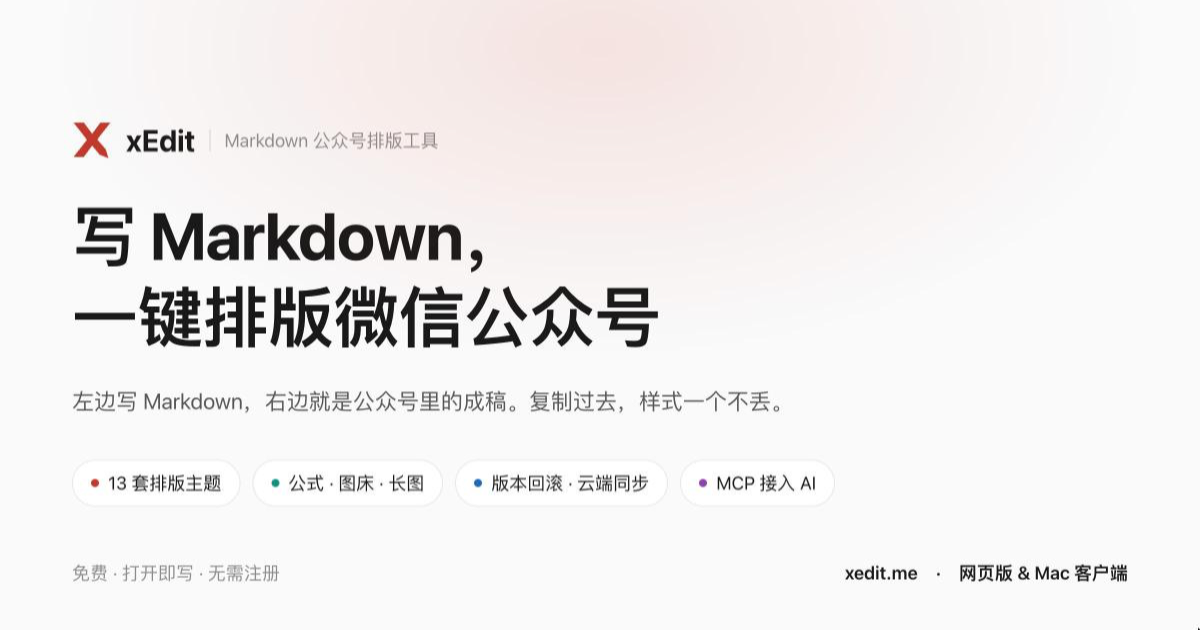
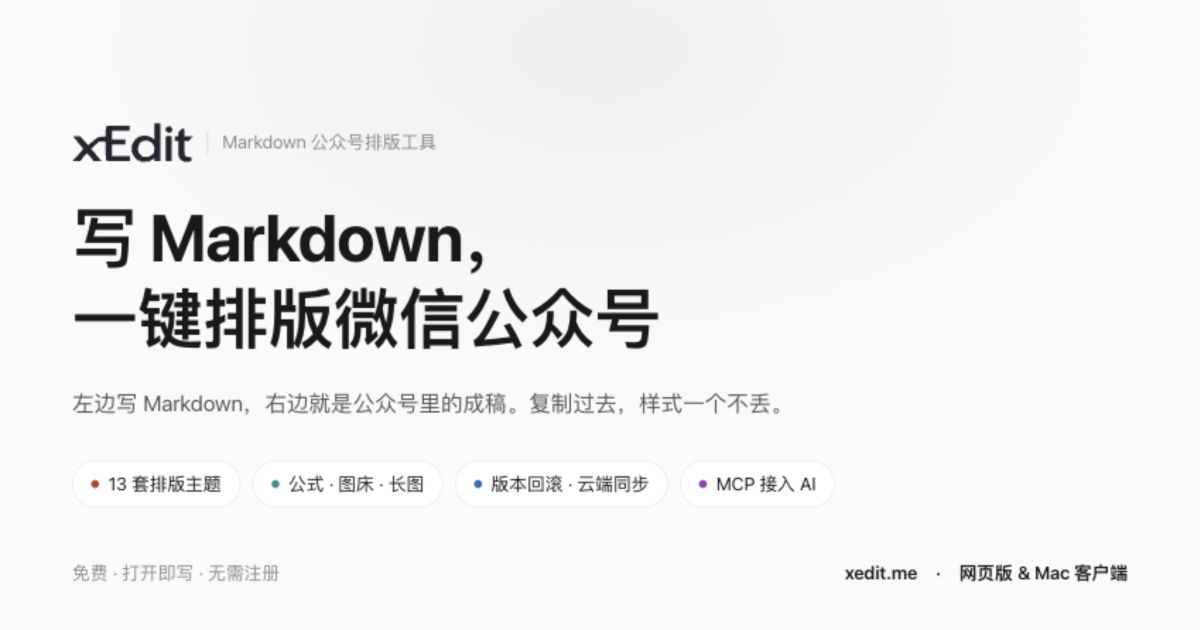
feat: adopt custom xEdit ligature branding

diff --git a/src/lib/brand.ts b/src/lib/brand.ts
@@ -1,0 +1,40 @@
+// 由 scripts/build-brand-assets.mjs 生成；源文件为 public/logo.svg。
+export const LOGO_VIEW_BOX = "0 0 882 291";
+export const LOGO_PATH = [
+  "M 612.662 4.858 C 606.828 5.406, 605.471 5.912, 603.412 8.306 L 601 11.112 601 68.177 L 601 125.242 594.019",
+  "118.657 C 565.550 91.800, 517.220 87.324, 480.278 108.121 C 470.043 113.883, 453.965 129.648, 448.046 139.724",
+  "C 442.841 148.585, 438.924 158.103, 436.407 168 C 433.726 178.545, 433.694 206.519, 436.353 216 C 449.018",
+  "261.157, 483.012 287.022, 529.657 286.992 C 556.807 286.975, 577.339 279.501, 593.750 263.660 L 601 256.662",
+  "601 269.331 L 601 282 623 282 L 645 282 645 147.968 C 645 5.022, 645.122 8.729, 640.335 6.187 C 637.855 4.870,",
+  "621.101 4.065, 612.662 4.858 M 257.936 25.750 C 254.385 27.550, 251.474 29.997, 249.506 32.834 L 246.500",
+  "37.169 246.211 70.084 L 245.922 103 241.711 103.114 C 239.395 103.176, 230.075 103.316, 221 103.424 C 188.873",
+  "103.808, 181.799 107.733, 133.659 151.887 C 125.496 159.374, 118.449 165.637, 117.998 165.804 C 117.547",
+  "165.971, 104.713 151.458, 89.477 133.554 L 61.775 101 34.388 101 C 15.430 101, 7 101.333, 7 102.081 C 7",
+  "102.675, 10.972 107.738, 15.827 113.331 C 37.004 137.728, 82 191.158, 82 191.908 C 82 192.361, 64.563 212.398,",
+  "43.250 236.437 C 21.938 260.475, 4.350 280.561, 4.167 281.072 C 3.967 281.628, 14.601 282, 30.712 282 L 57.590",
+  "282 81.708 254.233 C 105.555 226.780, 109.686 222.289, 110.356 223.089 C 120.824 235.594, 147.143 266.838,",
+  "152.610 273.250 L 160.071 282 187.619 282 C 203.550 282, 215.026 281.620, 214.833 281.099 C 214.650 280.603,",
+  "197.858 260.603, 177.518 236.653 C 157.178 212.704, 140.390 192.670, 140.211 192.132 C 139.827 190.982,",
+  "176.611 156.963, 185.892 149.886 C 199.009 139.882, 207.153 137.750, 230.500 138.207 L 245.500 138.500 246",
+  "202.500 C 246.455 260.693, 246.657 266.787, 248.229 269.660 C 250.513 273.834, 256.640 278.802, 261 280.015 C",
+  "263.136 280.609, 295.599 280.991, 344.273 280.994 L 424.046 281 423.773 263.250 L 423.500 245.500 357.250",
+  "245.243 L 291 244.986 291 202.104 C 291 168.440, 291.269 159.232, 292.250 159.269 C 292.938 159.294, 314.988",
+  "159.244, 341.250 159.158 L 389 159 389 142 L 389 125 380.250 124.750 C 375.438 124.612, 367.450 124.476,",
+  "362.500 124.446 C 357.550 124.416, 339.438 124.304, 322.250 124.196 L 291 124 291 91.500 L 291 59 355.500 59 L",
+  "420 59 420 41 L 420 23 341.679 23 L 263.359 23 257.936 25.750 M 702.045 29.132 C 680.679 33.131, 674.977",
+  "61.054, 693.223 72.334 C 705.631 80.006, 723.155 75.356, 729.451 62.722 C 738.323 44.918, 722.343 25.333,",
+  "702.045 29.132 M 800.500 47.382 C 793.631 50.627, 782.175 60.547, 778.577 66.366 C 775.691 71.034, 775.587",
+  "71.640, 775.176 86.091 L 774.752 101 762.496 101 L 750.240 101 749.830 106.750 C 749.604 109.912, 749.601",
+  "117.338, 749.823 123.250 L 750.227 134 762.863 134.001 L 775.500 134.003 775.549 184.751 C 775.604 241.371,",
+  "775.834 243.801, 782.440 257.712 C 788.388 270.237, 799.859 279.157, 815.570 283.473 C 828.313 286.974,",
+  "862.836 286.303, 868.732 282.440 C 870.826 281.068, 870.996 280.246, 870.944 271.727 C 870.836 254.180,",
+  "868.374 251.594, 851.497 251.307 C 837.829 251.074, 833.143 249.942, 828.320 245.708 C 820.410 238.763,",
+  "820.537 239.728, 820.206 183.750 L 819.913 134 836.782 134 C 856.579 134, 852.933 136.165, 867.936 115.500 L",
+  "878.100 101.500 849.098 101.235 L 820.096 100.970 819.798 75.397 L 819.500 49.824 816.694 47.412 C 813.022",
+  "44.256, 807.141 44.245, 800.500 47.382 M 692 98.652 C 691.175 98.924, 689.449 99.660, 688.165 100.288 C",
+  "682.844 102.889, 683 100.042, 683 194.450 L 683 282 705 282 L 727 282 727 193.723 C 727 95.756, 727.461",
+  "102.344, 720.401 99.394 C 717.162 98.041, 695.568 97.477, 692 98.652 M 525.675 132.558 C 496.515 139.109,",
+  "478.696 163.834, 480.313 195.500 C 481.687 222.400, 498.171 243.022, 523.460 249.478 C 532.258 251.725,",
+  "547.846 251.469, 557.013 248.929 C 583.116 241.696, 601 218.293, 601 191.370 C 601 164.991, 582.231 140.309,",
+  "556.955 133.446 C 548.587 131.174, 533.716 130.752, 525.675 132.558",
+].join(" ");

diff --git a/scripts/og-source.html b/scripts/og-source.html
@@ -19,11 +19,10 @@
   .glow {
     position: absolute; top: -260px; left: 50%; transform: translateX(-50%);
     width: 1100px; height: 620px; border-radius: 999px;
-    background: radial-gradient(closest-side, rgba(192,57,43,0.12), transparent);
+    background: radial-gradient(closest-side, rgba(37,38,45,0.06), transparent);
   }
   .brand { display: flex; align-items: center; gap: 14px; margin-bottom: 34px; }
-  .brand svg { width: 40px; height: 40px; color: #c0392b; }
-  .brand .name { font-size: 30px; font-weight: 700; letter-spacing: -0.01em; }
+  .brand .logo { width: auto; height: 40px; }
   .brand .sep { width: 1px; height: 22px; background: #d4d4d4; }
   .brand .tag { font-size: 18px; color: #8c8c8c; }
 
@@ -51,10 +50,7 @@
   <div class="glow"></div>
 
   <div class="brand">
-    <svg viewBox="0 0 1200 1200" fill="none" aria-hidden="true">
-      <path transform="translate(44.5 68.5)" fill="currentColor" d="M 0.726 2.250 C 7.319 10.742, 207.430 265.303, 217.494 278 C 225.821 288.506, 286.709 366.158, 360.985 461 C 377.138 481.625, 393.002 501.761, 396.238 505.746 C 399.954 510.322, 401.840 513.455, 401.356 514.246 C 400.934 514.936, 392.433 525.850, 382.466 538.500 C 362.318 564.070, 146.890 838.381, 58.905 950.500 C 27.829 990.100, 2.061 1023.063, 1.642 1023.750 C 1.035 1024.748, 32.121 1025, 155.771 1025 L 310.661 1025 314.050 1020.250 C 324.085 1006.185, 429.226 863.007, 515.443 746 C 522.130 736.925, 534.553 719.961, 543.050 708.302 C 551.548 696.644, 558.778 687.194, 559.118 687.302 C 559.877 687.545, 562.980 691.253, 680.198 832 C 732.187 894.425, 777.598 948.824, 781.112 952.886 L 787.500 960.273 898 1003.663 C 1046.617 1062.020, 1049 1062.937, 1049 1061.791 C 1049 1059.913, 972.646 806.373, 970.123 799.872 C 969.616 798.568, 949.469 774.740, 925.351 746.923 C 872.806 686.319, 831.253 638.139, 765.208 561.244 L 715.915 503.854 731.680 483.677 C 763.699 442.697, 1072.587 49.392, 1097.181 18.287 C 1104.231 9.370, 1110 1.832, 1110 1.537 C 1110 1.242, 1042.286 1, 959.523 1 L 809.047 1 797.190 16.750 C 784.159 34.059, 719.417 121.327, 644.177 223 C 617.518 259.025, 587.604 299.435, 577.702 312.799 C 567.800 326.164, 559.386 336.739, 559.005 336.299 C 558.623 335.860, 546.400 319.300, 531.841 299.500 C 508.375 267.586, 472.121 218.435, 386.167 102 C 372.160 83.025, 349.629 52.538, 336.099 34.252 L 311.500 1.004 155.628 1.002 C 31.078 1, -0.050 1.251, 0.726 2.250 M 891.705 818.250 C 891.424 819.487, 889.931 834.126, 888.387 850.780 C 886.844 867.434, 885.338 881.434, 885.041 881.892 C 884.743 882.350, 869.288 883.636, 850.696 884.749 C 832.104 885.863, 816.620 887.047, 816.286 887.381 C 815.253 888.413, 811.764 936.166, 812.658 937.031 C 813.249 937.603, 916.212 978.622, 934.500 985.571 C 935.050 985.780, 937.075 983.196, 939 979.829 C 944.292 970.573, 958.609 956.035, 969.352 949.008 C 974.383 945.717, 979.270 942.457, 980.211 941.763 C 982.078 940.384, 983.103 944.055, 958.225 863 C 953.245 846.775, 947.993 829.563, 946.553 824.750 L 943.936 816 918.076 816 L 892.217 816 891.705 818.250"/>
-    </svg>
-    <span class="name">xEdit</span>
+    <img class="logo" src="../public/logo.svg" alt="xEdit" />
     <span class="sep"></span>
     <span class="tag">Markdown 公众号排版工具</span>
   </div>

diff --git a/src/components/LogoMark.tsx b/src/components/LogoMark.tsx
@@ -1,16 +1,10 @@
-/**
- * xEdit 品牌标识：字母 X，右下笔画收成铅笔。单色矢量，fill=currentColor，
- * 由父级 color 决定颜色（放进朱砂印章方块里即为白色）。
- * 路径由 build/logo-candidates/m1-geometric.png 矢量化而来。
- */
+import { LOGO_PATH, LOGO_VIEW_BOX } from "@/lib/brand";
+
+/** 完整 xEdit 连字字标；跟随父级文字颜色，以适配深浅主题。 */
 export function LogoMark({ className }: { className?: string }) {
   return (
-    <svg viewBox="0 0 1200 1200" className={className} aria-hidden="true" focusable="false">
-      <path
-        transform="translate(44.5 68.5)"
-        fill="currentColor"
-        d="M 0.726 2.250 C 7.319 10.742, 207.430 265.303, 217.494 278 C 225.821 288.506, 286.709 366.158, 360.985 461 C 377.138 481.625, 393.002 501.761, 396.238 505.746 C 399.954 510.322, 401.840 513.455, 401.356 514.246 C 400.934 514.936, 392.433 525.850, 382.466 538.500 C 362.318 564.070, 146.890 838.381, 58.905 950.500 C 27.829 990.100, 2.061 1023.063, 1.642 1023.750 C 1.035 1024.748, 32.121 1025, 155.771 1025 L 310.661 1025 314.050 1020.250 C 324.085 1006.185, 429.226 863.007, 515.443 746 C 522.130 736.925, 534.553 719.961, 543.050 708.302 C 551.548 696.644, 558.778 687.194, 559.118 687.302 C 559.877 687.545, 562.980 691.253, 680.198 832 C 732.187 894.425, 777.598 948.824, 781.112 952.886 L 787.500 960.273 898 1003.663 C 1046.617 1062.020, 1049 1062.937, 1049 1061.791 C 1049 1059.913, 972.646 806.373, 970.123 799.872 C 969.616 798.568, 949.469 774.740, 925.351 746.923 C 872.806 686.319, 831.253 638.139, 765.208 561.244 L 715.915 503.854 731.680 483.677 C 763.699 442.697, 1072.587 49.392, 1097.181 18.287 C 1104.231 9.370, 1110 1.832, 1110 1.537 C 1110 1.242, 1042.286 1, 959.523 1 L 809.047 1 797.190 16.750 C 784.159 34.059, 719.417 121.327, 644.177 223 C 617.518 259.025, 587.604 299.435, 577.702 312.799 C 567.800 326.164, 559.386 336.739, 559.005 336.299 C 558.623 335.860, 546.400 319.300, 531.841 299.500 C 508.375 267.586, 472.121 218.435, 386.167 102 C 372.160 83.025, 349.629 52.538, 336.099 34.252 L 311.500 1.004 155.628 1.002 C 31.078 1, -0.050 1.251, 0.726 2.250 M 891.705 818.250 C 891.424 819.487, 889.931 834.126, 888.387 850.780 C 886.844 867.434, 885.338 881.434, 885.041 881.892 C 884.743 882.350, 869.288 883.636, 850.696 884.749 C 832.104 885.863, 816.620 887.047, 816.286 887.381 C 815.253 888.413, 811.764 936.166, 812.658 937.031 C 813.249 937.603, 916.212 978.622, 934.500 985.571 C 935.050 985.780, 937.075 983.196, 939 979.829 C 944.292 970.573, 958.609 956.035, 969.352 949.008 C 974.383 945.717, 979.270 942.457, 980.211 941.763 C 982.078 940.384, 983.103 944.055, 958.225 863 C 953.245 846.775, 947.993 829.563, 946.553 824.750 L 943.936 816 918.076 816 L 892.217 816 891.705 818.250"
-      />
+    <svg viewBox={LOGO_VIEW_BOX} className={className} role="img" aria-label="xEdit" focusable="false">
+      <path fill="currentColor" fillRule="evenodd" d={LOGO_PATH} />
     </svg>
   );
 }

diff --git a/src/features/landing/Landing.tsx b/src/features/landing/Landing.tsx
@@ -8,7 +8,6 @@ import {
   MAC_CTA,
   MAC_DOWNLOAD_URL,
   MAC_REQUIREMENT,
-  SITE_NAME,
   SITE_TAGLINE,
 } from "@/lib/site";
 import { FEATURE_GROUPS, MAC_FEATURES, STEPS } from "./data";
@@ -371,7 +370,7 @@ export function Landing() {
                   <span className="h-2.5 w-2.5 rounded-full bg-[#fdbc40]" />
                   <span className="h-2.5 w-2.5 rounded-full bg-[#35cd4b]" />
                 </span>
-                <span className="text-[11.5px] text-[var(--ink-faint)]">xEdit</span>
+                <LogoMark className="h-4 w-auto text-[var(--ink)]" />
               </div>
               <div className="grid grid-cols-[104px_1fr]">
                 <div className="space-y-1.5 border-r border-[var(--hairline)] bg-[var(--sidebar)] p-3">
@@ -448,10 +447,10 @@ export function Landing() {
           className={`${SHELL} flex flex-wrap items-center justify-between gap-x-10 gap-y-6 py-10`}
         >
           <div className="flex items-center gap-3">
-            <LogoMark className="h-8 w-8 shrink-0 text-[var(--seal)]" />
+            <LogoMark className="h-8 w-auto shrink-0 text-[var(--ink)]" />
             <div>
               <p className="text-[13.5px] font-semibold">
-                {SITE_NAME} · {SITE_TAGLINE}
+                {SITE_TAGLINE}
               </p>
               <p className="mt-1 text-[11.5px] text-[var(--ink-faint)]">
                 本地优先 · 登录后云端同步 · 排版样式不丢

diff --git a/src/features/workspace/components/Sidebar.tsx b/src/features/workspace/components/Sidebar.tsx
@@ -1,6 +1,7 @@
 "use client";
 
 import { FilePlus2, Loader2, PanelLeftClose, RotateCw, Search } from "lucide-react";
+import { LogoMark } from "@/components/LogoMark";
 import { CategoryTree } from "./CategoryTree";
 import { SidebarFooter } from "./SidebarFooter";
 import type { Workspace } from "../hooks/useWorkspace";
@@ -45,9 +46,7 @@ export function Sidebar({
       style={{ width: prefs.sidebarWidth }}
     >
       <div className="flex h-12 shrink-0 items-center gap-2 pl-4 pr-2">
-        <span className="text-[15px] font-semibold tracking-wide [font-family:var(--serif)]">
-          xEdit
-        </span>
+        <LogoMark className="h-6 w-auto shrink-0 text-[var(--ink)]" />
         <span className="flex-1" />
         <button
           className="flex h-7 w-7 cursor-pointer items-center justify-center rounded-md text-[var(--ink-faint)] hover:bg-[var(--sidebar-hover)] hover:text-[var(--ink)]"

diff --git a/src/features/landing/components/LandingChrome.tsx b/src/features/landing/components/LandingChrome.tsx
@@ -67,8 +67,7 @@ export function LandingHeader() {
     <header className="sticky top-0 z-40 border-b border-[var(--hairline)] bg-[var(--paper)]/85 backdrop-blur-md">
       <div className="mx-auto flex h-14 max-w-[1140px] items-center gap-3 px-5 sm:px-8">
         <Link href="/" className="flex shrink-0 items-center gap-2.5" aria-label={SITE_NAME}>
-          <LogoMark className="h-6 w-6 text-[var(--seal)]" />
-          <span className="text-[16px] font-semibold tracking-tight">{SITE_NAME}</span>
+          <LogoMark className="h-7 w-auto text-[var(--ink)]" />
           <span className="hidden text-[12.5px] text-[var(--ink-faint)] sm:inline">
             {SITE_TAGLINE}
           </span>

diff --git a/src/features/workspace/Home.tsx b/src/features/workspace/Home.tsx
@@ -168,7 +168,7 @@ export function Home({ landing }: HomeProps) {
 function SignedOutFallback({ onStart }: { onStart: () => void }) {
   return (
     <div className="flex h-full flex-col items-center justify-center gap-6 bg-[var(--paper)] px-6 text-center">
-      <LogoMark className="h-10 w-10 text-[var(--seal)]" />
+      <LogoMark className="h-10 w-auto text-[var(--ink)]" />
       <p className="text-[15px] text-[var(--ink-soft)]">登录状态已失效，重新开始吧</p>
       <div className="flex flex-wrap items-center justify-center gap-3">
         <button

diff --git a/src/components/AuthDialog.tsx b/src/components/AuthDialog.tsx
@@ -157,7 +157,7 @@ export function AuthHost() {
       >
         {/* 标题 */}
         <div className="px-6 pb-1 pt-6 text-center">
-          <LogoMark className="mx-auto block h-12 w-12 text-[var(--seal)]" />
+          <LogoMark className="mx-auto block h-10 w-auto text-[var(--ink)]" />
           <h3 className="mt-3 text-[17px] font-semibold [font-family:var(--serif)]">
             {isLogin ? "登录 xEdit" : "注册 xEdit"}
           </h3>

diff --git a/public/sw.js b/public/sw.js
@@ -6,7 +6,8 @@
  * 网页版与桌面壳（Electron 加载 xedit.me）共用这一套，桌面端无需发版。
  */
 
-const CACHE = "xedit-offline-v1";
+// 品牌图标换版时刷新静态缓存，避免缓存优先的 favicon 保留旧图。
+const CACHE = "xedit-offline-v2";
 
 self.addEventListener("install", () => {
   self.skipWaiting();

diff --git a/scripts/README.md b/scripts/README.md
@@ -1,16 +1,30 @@
 # scripts
 
+## build-brand-assets.mjs — 品牌字标与应用图标
+
+`public/logo.svg` 是已确认的完整连字轮廓，`public/logo-mark.svg` 是其中相连的 xE。
+修改源图后运行：
+
+```bash
+node scripts/build-brand-assets.mjs
+# 同时更新相邻桌面仓库（ICNS 生成需要 macOS 自带 iconutil）：
+node scripts/build-brand-assets.mjs ../xedit-desktop
+```
+
+脚本复用项目中的 sharp，生成 `src/lib/brand.ts`、网页图标，以及可选的桌面启动页资源、
+Dock PNG 和包含 16–1024 像素的 ICNS。组件通过 `currentColor` 适配深浅主题。
+
 ## og-source.html — 社交分享卡片（public/og.png）的源文件
 
 `public/og.png` 是这张 HTML 的截图，1200×630。改完文案后重新生成：
 
 ```bash
 # 1. 起一个静态服务（这个目录下）
-python3 -m http.server 3211
+python3 -m http.server 3211 --directory ..
 
-# 2. 用浏览器把视口调成 1200×630 打开 http://localhost:3211/og-source.html 截图，
+# 2. 用浏览器把视口调成 1200×630 打开 http://localhost:3211/scripts/og-source.html 截图，
 #    或用任意 headless 截图工具，例如：
-#    npx playwright screenshot --viewport-size=1200,630 http://localhost:3211/og-source.html og.png
+#    npx playwright screenshot --viewport-size=1200,630 http://localhost:3211/scripts/og-source.html og.png
 
 # 3. 确认尺寸并落位
 sips -g pixelWidth -g pixelHeight og.png
